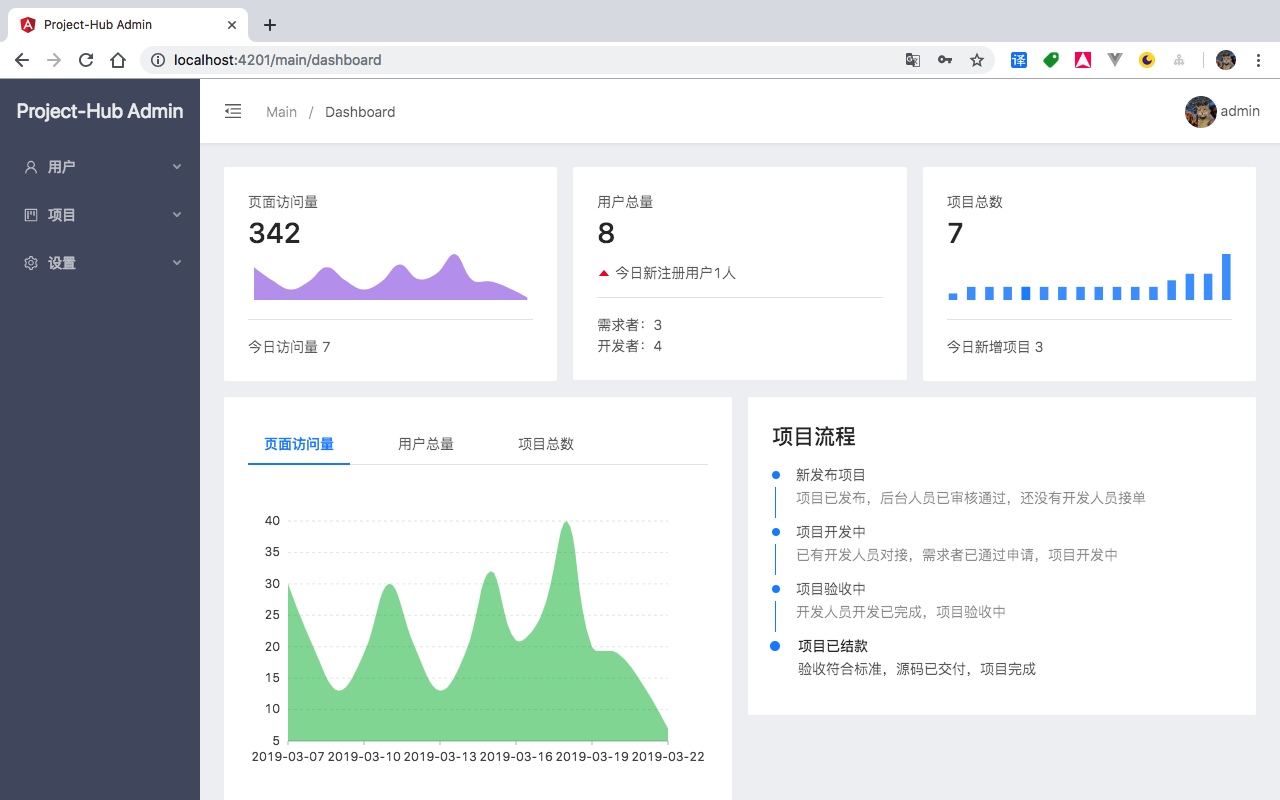
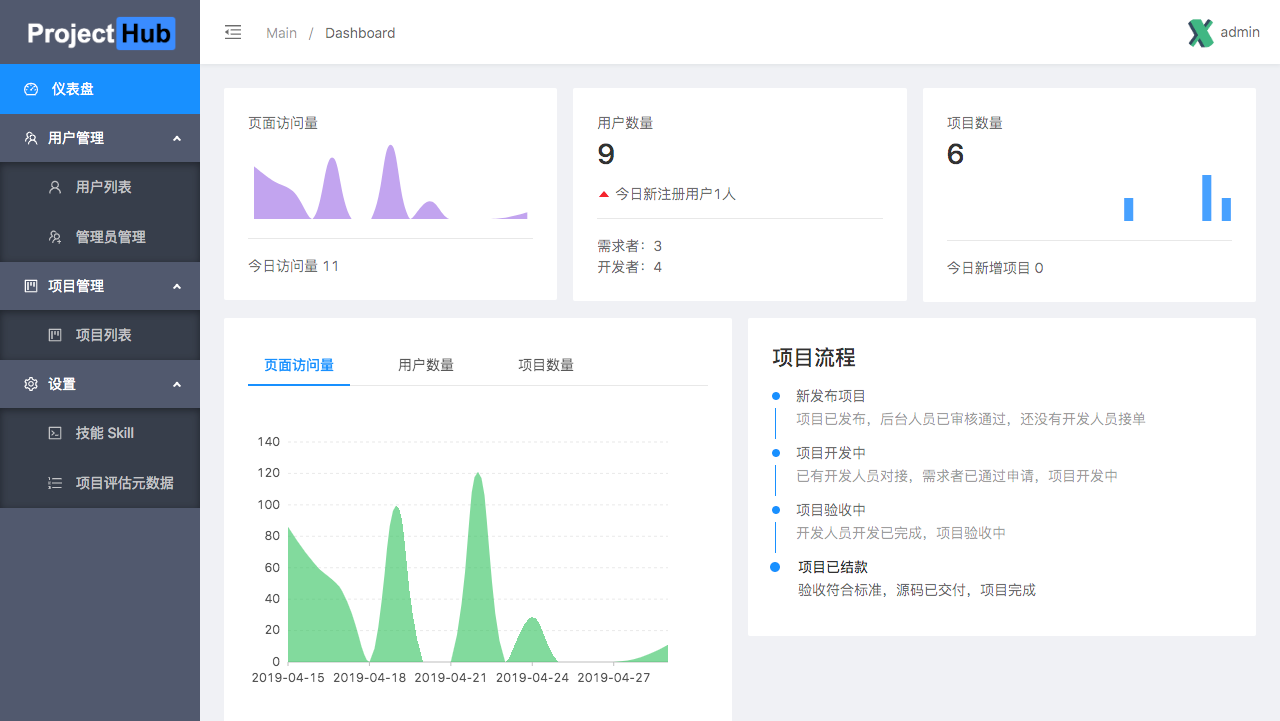
update sreenshot&readme

diff --git a/src/app/components/dashboard/dashboard.component.html b/src/app/components/dashboard/dashboard.component.html
@@ -1,139 +1,141 @@
-<div nz-row
-  nzGutter="16">
-  <div nz-col
-    nzSpan="8">
-    <!-- 页面访问量 -->
-    <nz-card [nzBordered]="false">
-      <span>页面访问量</span>
-      <h1>{{count.pageAll | number}}</h1>
-      <div>
-        <v-chart [forceFit]="chart1.forceFit"
-          [height]="chart1.height"
-          [width]="chart1.width"
-          [scale]="chart1.scale"
-          [padding]="chart1.padding"
-          [data]="pageData">
-          <v-tooltip></v-tooltip>
-          <v-smooth-area position="date*value"
-            color="#965fe4"></v-smooth-area>
-        </v-chart>
-      </div>
-      <nz-divider></nz-divider>
-      <span>今日访问量 {{count.pageToday | number}} </span>
-    </nz-card>
+<div *ngIf="userData.length && pageData.length && projectData.length">
+  <div nz-row
+    nzGutter="16">
+    <div nz-col
+      nzSpan="8">
+      <!-- 页面访问量 -->
+      <nz-card [nzBordered]="false">
+        <span>页面访问量</span>
+        <h1>{{count.pageAll | number}}</h1>
+        <div>
+          <v-chart [forceFit]="chart1.forceFit"
+            [height]="86"
+            [width]="chart1.width"
+            [scale]="chart1.scale"
+            [padding]="chart1.padding"
+            [data]="pageData">
+            <v-tooltip></v-tooltip>
+            <v-smooth-area position="date*value"
+              color="#965fe4"></v-smooth-area>
+          </v-chart>
+        </div>
+        <nz-divider></nz-divider>
+        <span>今日访问量 {{count.pageToday | number}} </span>
+      </nz-card>
+    </div>
+    <!-- 用户数量 -->
+    <div nz-col
+      nzSpan="8">
+      <nz-card [nzBordered]="false">
+        <span>用户数量</span>
+        <h1>{{count.userAll | number}}</h1>
+        <div class="mt-2">
+          <i nz-icon
+            type="caret-up"
+            theme="outline"
+            class="font-red"></i>
+          今日新注册用户{{count.userToday | number}}人
+        </div>
+        <nz-divider></nz-divider>
+        <span>需求者：{{count.demandUser | number}}
+          <br>开发者：{{count.devUser | number}}</span>
+      </nz-card>
+    </div>
+    <!-- 项目数量 -->
+    <div nz-col
+      nzSpan="8">
+      <nz-card [nzBordered]="false">
+        <span>项目数量</span>
+        <h1>{{count.projectAll | number}}</h1>
+        <div>
+          <v-chart [forceFit]="chart1.forceFit"
+            [height]="46"
+            [width]="chart1.width"
+            [scale]="chart1.scale"
+            [padding]="chart1.padding"
+            [data]="projectData">
+            <v-tooltip></v-tooltip>
+            <v-bar position="date*value"></v-bar>
+          </v-chart>
+        </div>
+        <nz-divider></nz-divider>
+        <span>今日新增项目 {{count.projectToday | number}}</span>
+      </nz-card>
+    </div>
   </div>
-  <!-- 用户数量 -->
-  <div nz-col
-    nzSpan="8">
-    <nz-card [nzBordered]="false">
-      <span>用户数量</span>
-      <h1>{{count.userAll | number}}</h1>
-      <div class="mt-2">
-        <i nz-icon
-          type="caret-up"
-          theme="outline"
-          class="font-red"></i>
-        今日新注册用户{{count.userToday | number}}人
-      </div>
-      <nz-divider></nz-divider>
-      <span>需求者：{{count.demandUser | number}}
-        <br>开发者：{{count.devUser | number}}</span>
-    </nz-card>
-  </div>
-  <!-- 项目数量 -->
-  <div nz-col
-    nzSpan="8">
-    <nz-card [nzBordered]="false">
-      <span>项目数量</span>
-      <h1>{{count.projectAll | number}}</h1>
-      <div>
-        <v-chart [forceFit]="chart1.forceFit"
-          [height]="chart1.height"
-          [width]="chart1.width"
-          [scale]="chart1.scale"
-          [padding]="chart1.padding"
-          [data]="projectData">
-          <v-tooltip></v-tooltip>
-          <v-bar position="date*value"></v-bar>
-        </v-chart>
-      </div>
-      <nz-divider></nz-divider>
-      <span>今日新增项目 {{count.projectToday | number}}</span>
-    </nz-card>
-  </div>
-</div>
 
-<div nz-row
-  nzGutter="16"
-  class="mt-3">
-  <div nz-col
-    nzSpan="12">
-    <nz-card [nzBordered]="false">
-      <nz-tabset [nzSelectedIndex]="tabAct"
-        (nzSelectChange)="tabChange($event)">
-        <nz-tab nzTitle="页面访问量">
-          <div class="tab-con">
-            <v-chart *ngIf="tabAct == 0"
-              [forceFit]="chart1.forceFit"
-              [height]="300"
-              [data]="pageData"
-              [padding]="40"
-              [scale]="chart1.scale">
-              <v-tooltip></v-tooltip>
-              <v-axis></v-axis>
-              <v-smooth-area position="date*value"
-                color="rgb(47, 194, 91)"></v-smooth-area>
-            </v-chart>
-          </div>
-        </nz-tab>
-        <nz-tab nzTitle="用户数量">
-          <div class="tab-con">
-            <v-chart *ngIf="tabAct == 1"
-              [forceFit]="chart1.forceFit"
-              [height]="300"
-              [scale]="chart1.scaleWithText"
-              [padding]="40"
-              [data]="userData">
-              <v-tooltip></v-tooltip>
-              <v-axis></v-axis>
-              <v-bar position="date*value"></v-bar>
-            </v-chart>
-          </div>
-        </nz-tab>
-        <nz-tab nzTitle="项目数量">
-          <div class="tab-con">
-            <v-chart *ngIf="tabAct == 2"
-              [forceFit]="chart1.forceFit"
-              [height]="300"
-              [scale]="chart1.scaleWithText"
-              [padding]="40"
-              [data]="projectData">
-              <v-tooltip></v-tooltip>
-              <v-axis></v-axis>
-              <v-bar position="date*value"></v-bar>
-            </v-chart>
-          </div>
-        </nz-tab>
-      </nz-tabset>
-    </nz-card>
-  </div>
-  <div nz-col
-    nzSpan="12">
-    <nz-card [nzBordered]="false">
-      <h2>项目流程</h2>
-      <nz-steps [nzCurrent]="3"
-        nzDirection="vertical"
-        nzSize="small"
-        nzProgressDot>
-        <nz-step nzTitle="新发布项目"
-          nzDescription="项目已发布，后台人员已审核通过，还没有开发人员接单"></nz-step>
-        <nz-step nzTitle="项目开发中"
-          nzDescription="已有开发人员对接，需求者已通过申请，项目开发中"></nz-step>
-        <nz-step nzTitle="项目验收中"
-          nzDescription="开发人员开发已完成，项目验收中"></nz-step>
-        <nz-step nzTitle="项目已结款"
-          nzDescription="验收符合标准，源码已交付，项目完成"></nz-step>
-      </nz-steps>
-    </nz-card>
+  <div nz-row
+    nzGutter="16"
+    class="mt-3">
+    <div nz-col
+      nzSpan="12">
+      <nz-card [nzBordered]="false">
+        <nz-tabset [nzSelectedIndex]="tabAct"
+          (nzSelectChange)="tabChange($event)">
+          <nz-tab nzTitle="页面访问量">
+            <div class="tab-con">
+              <v-chart *ngIf="tabAct == 0"
+                [forceFit]="chart1.forceFit"
+                [height]="300"
+                [data]="pageData"
+                [padding]="40"
+                [scale]="chart1.scale">
+                <v-tooltip></v-tooltip>
+                <v-axis></v-axis>
+                <v-smooth-area position="date*value"
+                  color="rgb(47, 194, 91)"></v-smooth-area>
+              </v-chart>
+            </div>
+          </nz-tab>
+          <nz-tab nzTitle="用户数量">
+            <div class="tab-con">
+              <v-chart *ngIf="tabAct == 1"
+                [forceFit]="chart1.forceFit"
+                [height]="300"
+                [scale]="chart1.scaleWithText"
+                [padding]="40"
+                [data]="userData">
+                <v-tooltip></v-tooltip>
+                <v-axis></v-axis>
+                <v-bar position="date*value"></v-bar>
+              </v-chart>
+            </div>
+          </nz-tab>
+          <nz-tab nzTitle="项目数量">
+            <div class="tab-con">
+              <v-chart *ngIf="tabAct == 2"
+                [forceFit]="chart1.forceFit"
+                [height]="300"
+                [scale]="chart1.scaleWithText"
+                [padding]="40"
+                [data]="projectData">
+                <v-tooltip></v-tooltip>
+                <v-axis></v-axis>
+                <v-bar position="date*value"></v-bar>
+              </v-chart>
+            </div>
+          </nz-tab>
+        </nz-tabset>
+      </nz-card>
+    </div>
+    <div nz-col
+      nzSpan="12">
+      <nz-card [nzBordered]="false">
+        <h2>项目流程</h2>
+        <nz-steps [nzCurrent]="3"
+          nzDirection="vertical"
+          nzSize="small"
+          nzProgressDot>
+          <nz-step nzTitle="新发布项目"
+            nzDescription="项目已发布，后台人员已审核通过，还没有开发人员接单"></nz-step>
+          <nz-step nzTitle="项目开发中"
+            nzDescription="已有开发人员对接，需求者已通过申请，项目开发中"></nz-step>
+          <nz-step nzTitle="项目验收中"
+            nzDescription="开发人员开发已完成，项目验收中"></nz-step>
+          <nz-step nzTitle="项目已结款"
+            nzDescription="验收符合标准，源码已交付，项目完成"></nz-step>
+        </nz-steps>
+      </nz-card>
+    </div>
   </div>
 </div>

diff --git a/src/app/components/dashboard/dashboard.component.ts b/src/app/components/dashboard/dashboard.component.ts
@@ -28,7 +28,7 @@ interface DashboardDate {
 export class DashboardComponent implements OnInit {
   chart1 = {
     forceFit: true,
-    height: 46,
+    // height: 86,
     width: 200,
     padding: [0, 6],
     scale: [{
@@ -68,6 +68,7 @@ export class DashboardComponent implements OnInit {
   ngOnInit() {
     this.getPageData()
   }
+
   // 获取数据
   getPageData() {
     const now = new Date()

diff --git a/README.md b/README.md
@@ -49,7 +49,31 @@ server端api请[移步这里](https://github.com/xjonson/ProjectHub-BackEnd)
 
 ## 展示
 
+登录
+<br>
 ![login](./screenshots/login.png)
+<br>
+仪表盘
+<br>
 ![dashboard](./screenshots/dashboard.png)
+<br>
+用户列表
+<br>
 ![user](./screenshots/user.png)
+<br>
+管理员列表
+<br>
+![admins](./screenshots/admins.png)
+<br>
+项目列表
+<br>
 ![project](./screenshots/project.png)
+<br>
+项目估价元数据
+<br>
+![project_assess](./screenshots/project_assess.png)
+<br>
+技能元数据
+<br>
+![skill](./screenshots/skills.png)
+<br>
